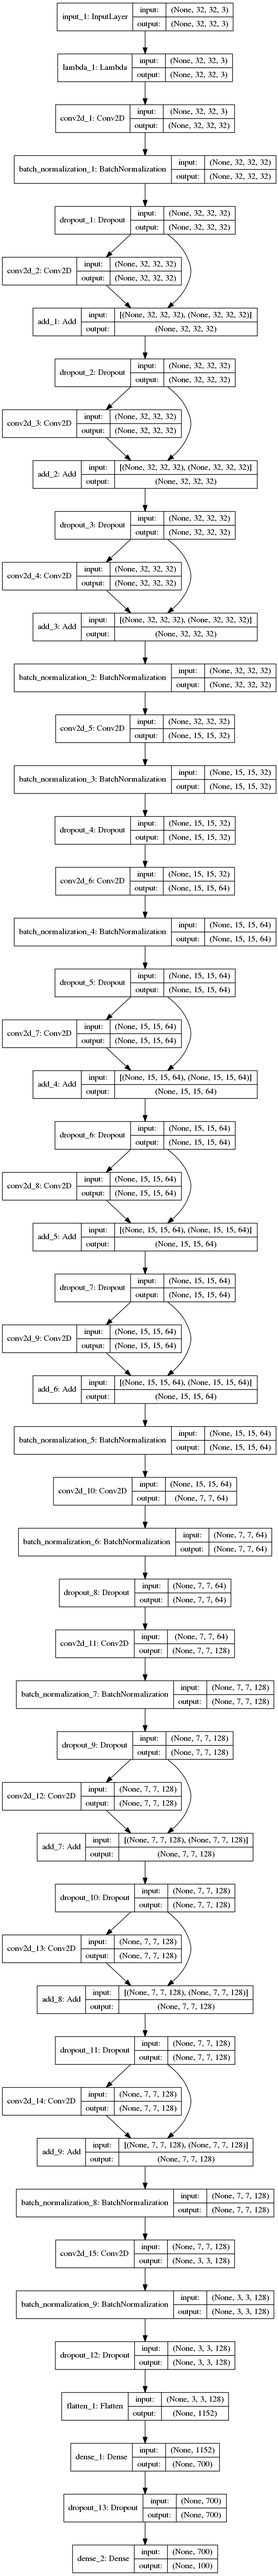
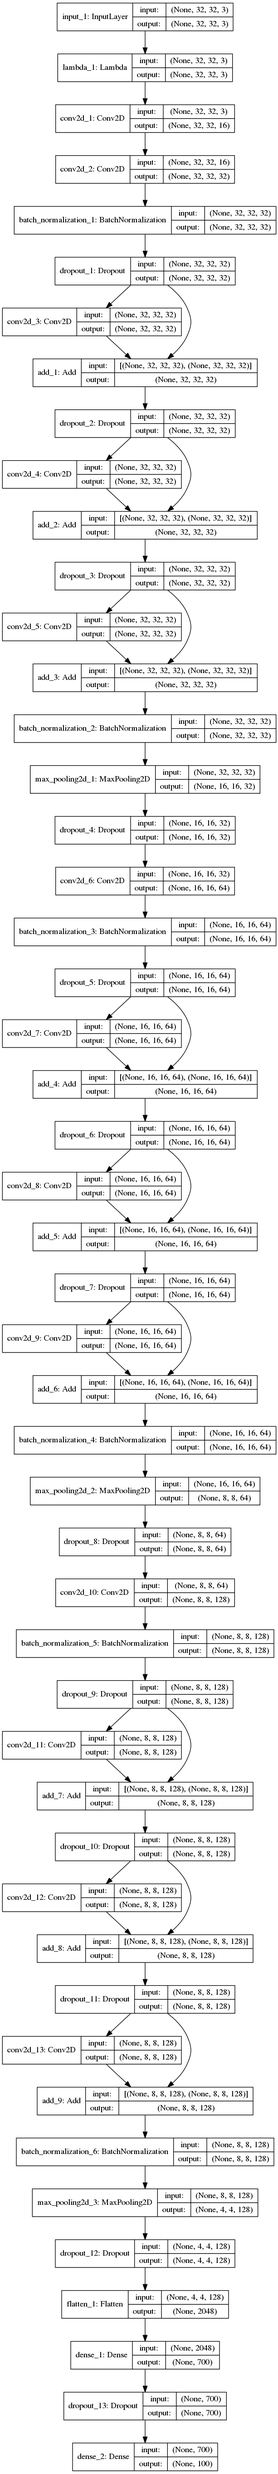
Added L2 weight decay

diff --git a/neural_net.py b/neural_net.py
@@ -36,6 +36,7 @@ y_test = keras.utils.to_categorical(y_test, NB_CLASSES)
 # You may want to reduce this considerably if you don't have a killer GPU:
 BATCH_SIZE = 700
 EPOCHS = 100
+STARTING_L2_REG = 0.001
 
 optimizer_str_to_class = {
     'Adam': Adam,
@@ -107,6 +108,14 @@ def build_model(hype_space):
 
     current_layer = random_image_mirror_left_right(input_layer)
 
+    if hype_space['use_first_4x4']:
+        current_layer = keras.layers.convolutional.Conv2D(
+            filters=16, kernel_size=(4, 4), strides=(1, 1),
+            padding='same', activation='relu',
+            kernel_regularizer=keras.regularizers.l2(
+                STARTING_L2_REG * hype_space['l2_weight_reg_mult'])
+        )(current_layer)
+
     # Core loop that stacks multiple conv+pool layers, with maybe some
     # residual connections and other fluffs:
     n_filters = int(32 * hype_space['hidden_units_mult'])
@@ -122,7 +131,7 @@ def build_model(hype_space):
             current_layer = bn(current_layer)
             print(current_layer._keras_shape)
 
-        if hype_space['residual'] is not None:
+        if i > 0 and hype_space['residual'] is not None:
             current_layer = bn(residual(current_layer, n_filters, hype_space))
             print(current_layer._keras_shape)
 
@@ -148,7 +157,9 @@ def build_model(hype_space):
 
     current_layer = keras.layers.core.Dense(
         units=int(700 * hype_space['fc_units_mult']),
-        activation="relu"
+        activation="relu",
+        kernel_regularizer=keras.regularizers.l2(
+            STARTING_L2_REG * hype_space['l2_weight_reg_mult'])
     )(current_layer)
     print(current_layer._keras_shape)
 
@@ -156,7 +167,9 @@ def build_model(hype_space):
 
     current_layer = keras.layers.core.Dense(
         units=NB_CLASSES,
-        activation="softmax"
+        activation="softmax",
+        kernel_regularizer=keras.regularizers.l2(
+            STARTING_L2_REG * hype_space['l2_weight_reg_mult'])
     )(current_layer)
     print(current_layer._keras_shape)
 
@@ -177,7 +190,9 @@ def convolution(prev_layer, n_filters, hype_space):
     k = hype_space['conv_kernel_size']
     return keras.layers.convolutional.Conv2D(
         filters=n_filters, kernel_size=(k, k), strides=(1, 1),
-        padding='same', activation='relu'
+        padding='same', activation='relu',
+        kernel_regularizer=keras.regularizers.l2(
+            STARTING_L2_REG * hype_space['l2_weight_reg_mult'])
     )(prev_layer)
 
 
@@ -202,7 +217,9 @@ def convolution_pooling(prev_layer, n_filters, hype_space):
     """
     return keras.layers.convolutional.Conv2D(
         filters=n_filters, kernel_size=(3, 3), strides=(2, 2),
-        padding='valid', activation='linear'
+        padding='valid', activation='linear',
+        kernel_regularizer=keras.regularizers.l2(
+            STARTING_L2_REG * hype_space['l2_weight_reg_mult'])
     )(prev_layer)
 
 

diff --git a/optimize.py b/optimize.py
@@ -21,6 +21,8 @@ space = {
     # it vary exponentially, in a multiplicative fashion rather than in
     # a linear fashion, to handle his exponentialy varying nature:
     'lr_rate_mult': hp.loguniform('lr_rate_mult', -0.5, 0.5),
+    # L2 weight decay:
+    'l2_weight_reg_mult': hp.loguniform('l2_weight_reg_mult', -2.5, 2.5),
     # Choice of optimizer:
     'optimizer': hp.choice('optimizer', ['Adam', 'Nadam', 'RMSprop']),
     # Uniform distribution in finding appropriate dropout values
@@ -28,6 +30,8 @@ space = {
     # Use batch normalisation at more places?
     'use_BN': hp.choice('use_BN', [False, True]),
 
+    # Use a first convolution of 4x4?
+    'use_first_4x4': hp.choice('use_first_4x4', [False, True]),
     # Use residual connections? If so, how many more to stack?
     'residual': hp.choice(
         'residual', [None, hp.choice(
@@ -52,13 +56,15 @@ def plot_average_model():
     """Plot a demo model."""
     space_normal_demo_to_plot = {
         'lr_rate_mult': 1.0,
+        'l2_weight_reg_mult': 1.0,
         'optimizer': 'Adam',
         'dropout_drop_proba': 0.0,
         'use_BN': True,
+        'use_first_4x4': True,
         'residual': 3,
         'hidden_units_mult': 1.0,
         'nb_conv_pool_layers': 3,
-        'use_allconv_pooling': True,
+        'use_allconv_pooling': False,
         'conv_kernel_size': 3,
         'fc_units_mult': 1.0,
     }
@@ -98,7 +104,8 @@ def run_a_trial():
     pickle.dump(trials, open("results.pkl", "wb"))
 
     print("\nOPTIMIZATION STEP COMPLETE.\n")
-    print("Best results yet:")
+    print("Best results yet (note that this is calculated on the 'loss' "
+          "metric, so L2 weight decay might end a bit ignore by hyperopt):")
     print(best)
 
 

diff --git a/README.md b/README.md
@@ -18,13 +18,15 @@ Here is a basic overview of the model. I implemented it in such a way that Hyper
 
 space = {
     'lr_rate_mult': 1.0,
+    'l2_weight_reg_mult': 1.0,
     'optimizer': 'Adam',
     'dropout_drop_proba': 0.0,
     'use_BN': True,
+    'use_first_4x4': True,
     'residual': 3,
     'hidden_units_mult': 1.0,
     'nb_conv_pool_layers': 3,
-    'use_allconv_pooling': True,
+    'use_allconv_pooling': False,
     'conv_kernel_size': 3,
     'fc_units_mult': 1.0,
 }
